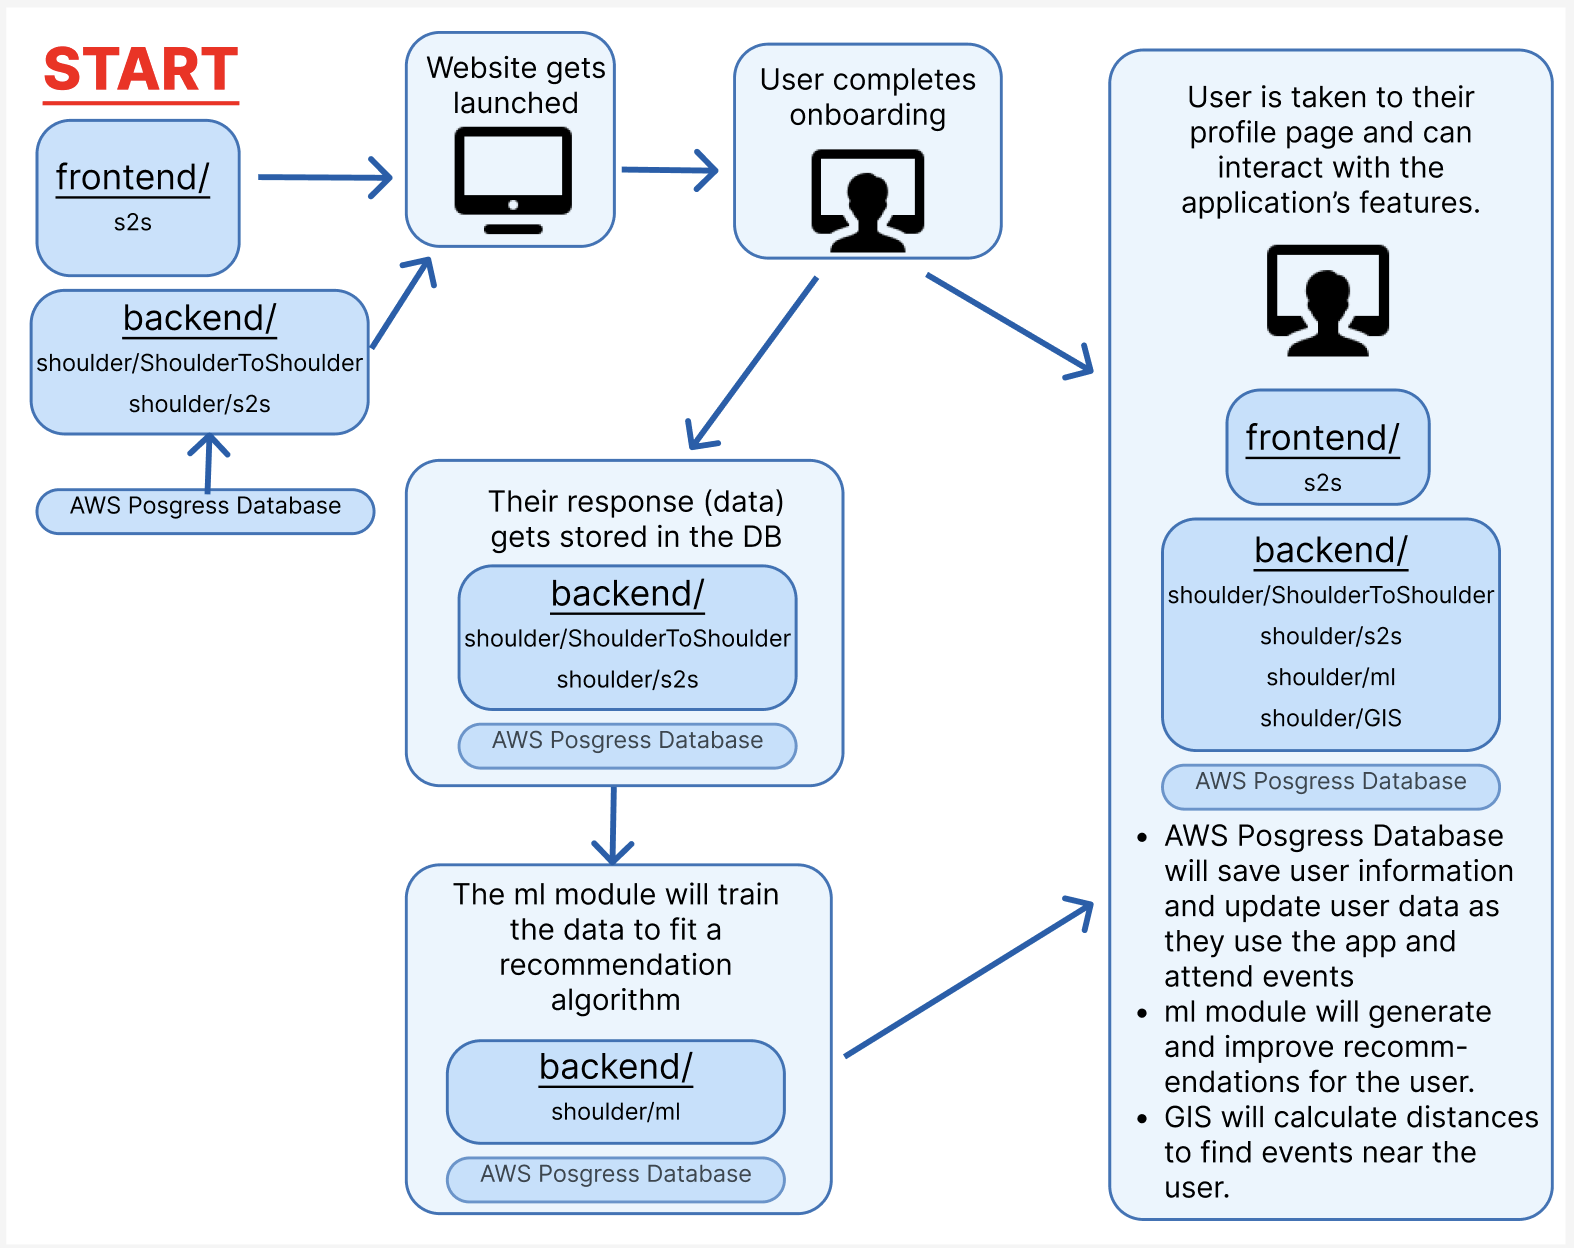
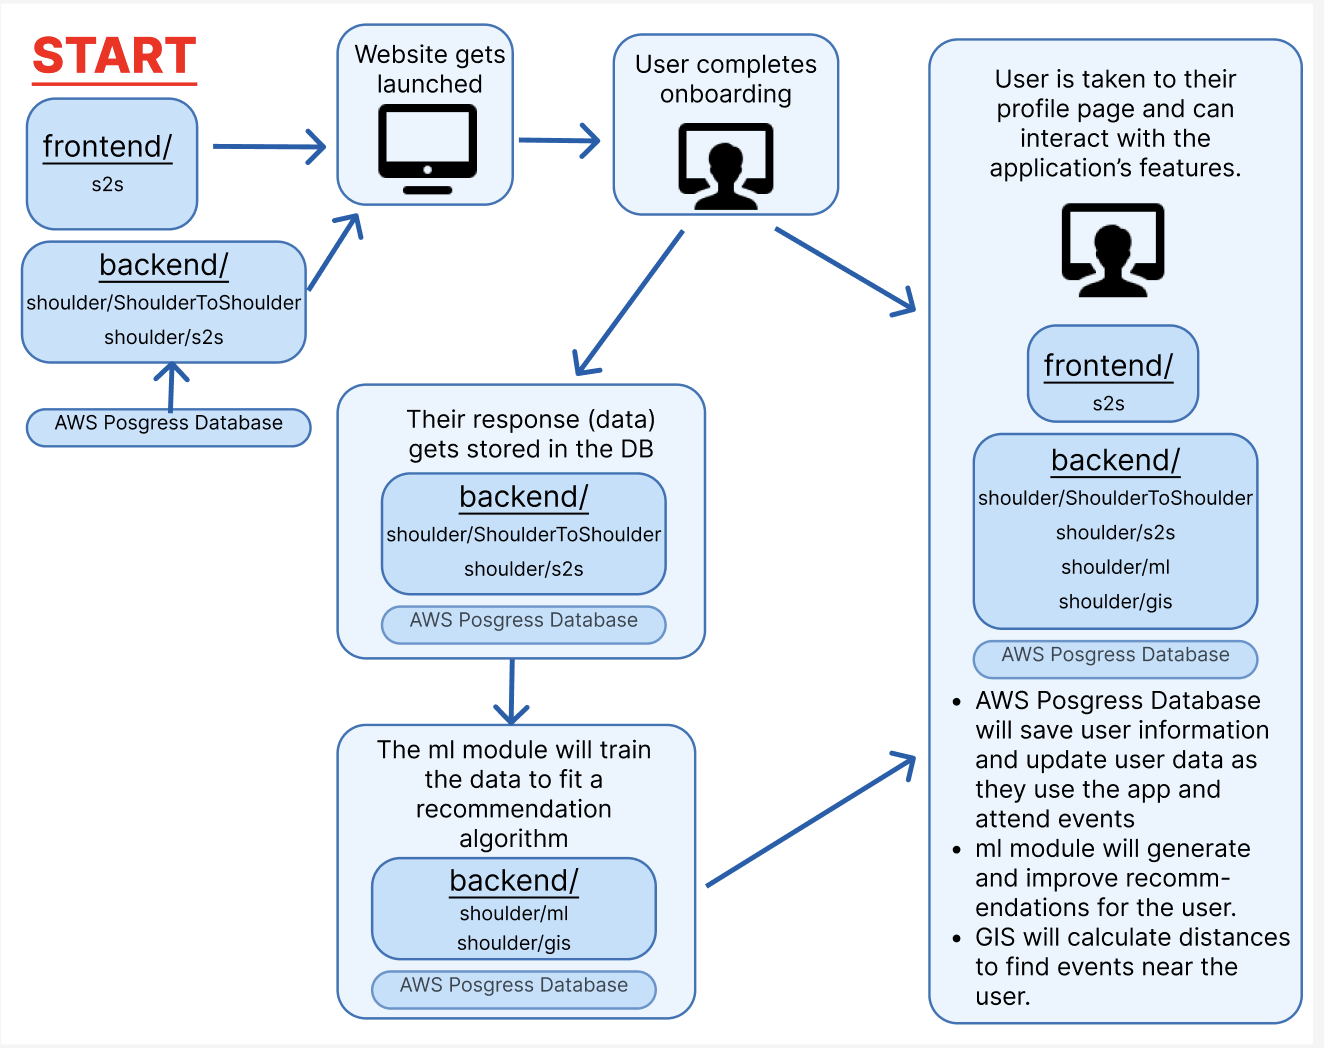
finish README documentation

diff --git a/docs/architecture.md b/docs/architecture.md
@@ -12,9 +12,9 @@ Directory with our web application's backend development. Our backend employs Dj
 The two directories which house our Django development. This is where the backend team manages the database, the models, the API endpoints (viewpoints), and the overall backend connection to the web application.  
 
 #### `backend/shoulder/config/gunicorn`
-The directory which establishes our application's AWS server deployment.
+The directory which establishes our application's AWS deployment; this sets up our app on a server and also schedules the cron job to send users weekly email notifications. 
 
-#### `backend/shoulder/ml`
+#### `backend/shoulder/ml/ml`
 Directory which contains our web application's machine learning development. Machine learning is used by our application to provide users with recommendations for events to attend.
 
 To generate user recommendations, we employ a deep factorization machine (DeepFM). A DeepFM
@@ -61,7 +61,9 @@ The directory which contains all of the unit testing for the backend module. We 
 
 ## Architecture Diagram
 
-<!-- INSERT HERE -->
+A high level overview of our repository structure:
+
+![Architecture Diagram](media/architecture_diagram.png)
 
 ## About Our Data
 

diff --git a/docs/README.md b/docs/README.md
@@ -71,19 +71,7 @@ To exit the application, run ctrl+C (i.e. ^C) in both terminals to shut down the
 
 ## Unit Testing
 
-Following development in any module, run it's unit testing. 
-
-#### `frontend`
-
-<!-- TBD -->
-
-<pre>
-```
-
-```
-</pre>
-
-#### `backend`
+Following development, run unit testing. 
  
 <pre>
 ```
@@ -118,8 +106,8 @@ pre-commit run --all
 
 <pre>
 ```
-cd frontend
+cd frontend/s2s
+npm install prettier  //optional
 npm run lint
-npm run format
 ```
 </pre>
